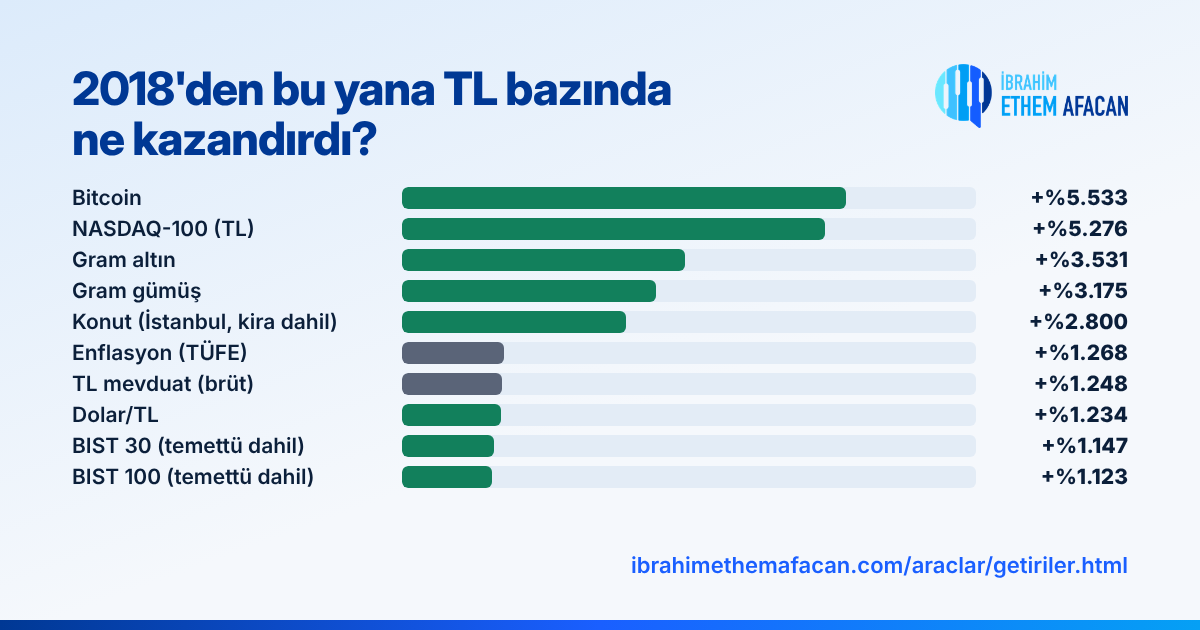
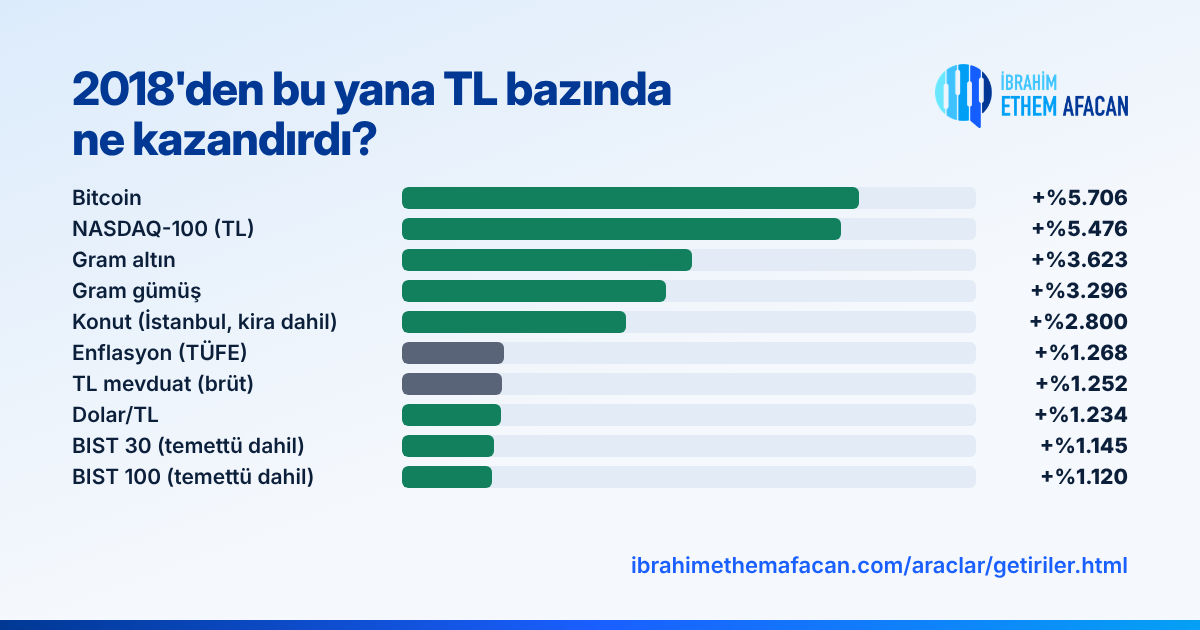
Verileri 23 Kasım 2026 kapanışına güncelle
Claude-Session: https://claude.ai/code/session_013mrGbpFadh1h9epcSoKPzq

diff --git a/araclar/getiriler.html b/araclar/getiriler.html
@@ -11,14 +11,14 @@
   <meta property="og:title" content="Yatırım Araçlarının Getirileri: 2018'den bu yana TL bazında ne kazandırdı?">
   <meta property="og:description" content="2018'den bu yana TL bazında gram altın, gram gümüş, BIST 100 ve BIST 30 (temettü dahil), NASDAQ-100, dolar/TL, bitcoin ve İstanbul'da konutun (kira dahil) mevduat ve enflasyonla karşılaştırmalı yıllık ve kümülatif getirileri.">
   <meta property="og:url" content="https://ibrahimethemafacan.com/araclar/getiriler.html">
-  <meta property="og:image" content="https://ibrahimethemafacan.com/img/og-getiriler.png?v=19">
+  <meta property="og:image" content="https://ibrahimethemafacan.com/img/og-getiriler.png?v=20">
   <meta property="og:image:width" content="1200">
   <meta property="og:image:height" content="630">
   <meta name="twitter:card" content="summary_large_image">
   <meta name="twitter:site" content="@ibrahim___ethem">
   <meta name="twitter:title" content="Yatırım Araçlarının Getirileri: 2018'den bu yana TL bazında ne kazandırdı?">
   <meta name="twitter:description" content="2018'den bu yana TL bazında gram altın, gram gümüş, BIST 100 ve BIST 30 (temettü dahil), NASDAQ-100, dolar/TL, bitcoin ve İstanbul'da konutun (kira dahil) mevduat ve enflasyonla karşılaştırmalı yıllık ve kümülatif getirileri.">
-  <meta name="twitter:image" content="https://ibrahimethemafacan.com/img/og-getiriler.png?v=19">
+  <meta name="twitter:image" content="https://ibrahimethemafacan.com/img/og-getiriler.png?v=20">
   <link rel="icon" href="/favicon.ico" sizes="any">
   <link rel="icon" type="image/png" sizes="32x32" href="/img/favicon-32.png">
   <link rel="icon" type="image/png" sizes="192x192" href="/img/favicon-192.png">
@@ -57,7 +57,7 @@
   <main class="wrap narrow">
     <article class="prose wide">
       <h1>Yatırım araçlarının getirileri</h1>
-      <p>2018 başından 20 Kasım 2026'ya kadar, Türk lirası bazında. Bir aracı seçin; her yılın getirisini ve dönem başından itibaren biriken toplam getiriyi görün.</p>
+      <p>2018 başından 23 Kasım 2026'ya kadar, Türk lirası bazında. Bir aracı seçin; her yılın getirisini ve dönem başından itibaren biriken toplam getiriyi görün.</p>
     </article>
 
     <section class="race" aria-label="Toplam getiri sıralaması">
@@ -79,7 +79,7 @@
 
     <article class="prose">
       <h2>Notlar</h2>
-      <p>2026 satırı yıl başından 20 Kasım 2026'ya kadarki dönemi kapsar. Kümülatif getiri, yıllık getirilerin bileşik olarak çarpılmasıyla bulunur; bu yüzden yıllık oranların basit toplamından farklıdır. BIST 100 ve BIST 30 getirileri temettüler dahil hesaplanmıştır. NASDAQ-100, endeks puanının dolar/TL kuruyla çarpılmasıyla TL'ye çevrilmiştir; temettüler hariçtir. Gram altın GLDGR kapanışlarından, gram gümüş ise XAGTRY (ons gümüş/TL) kapanışlarının 31,1035'e bölünerek grama çevrilmesiyle hesaplanmıştır. Bitcoin'in yıl sonu değeri, yılın son günündeki BTC/USDT kapanışının dolar/TL kuruyla çarpılmasıyla bulunmuştur. Konut getirisi, İstanbul konut fiyatlarındaki değişim (TCMB Konut Fiyat Endeksi) ile brüt kira getirisinin toplamıdır. Kira getirisi, TCMB'nin İstanbul'da değerlemesi yapılan konutlara ait birim kira ve birim fiyat verilerinden hesaplanmıştır; aidat, vergi ve boş kalma süresi gibi masraflar hariçtir. TL mevduat getirisi, TCMB'nin açıkladığı 3 aya kadar vadeli TL mevduat faizlerinin (ağırlıklı ortalama, akım) aylık ortalamalarıyla, mevduatın her üç ayda bir yenilendiği varsayılarak hesaplanmıştır; stopaj öncesi brüt getiridir. Enflasyon, TÜİK'in açıkladığı tüketici fiyat endeksinin (TÜFE) Aralıktan Aralığa değişimidir; 2026 satırı Eylül 2026'ya kadarki değişimi gösterir. Geçmiş getiriler gelecekteki getirilerin göstergesi değildir.</p>
+      <p>2026 satırı yıl başından 23 Kasım 2026'ya kadarki dönemi kapsar. Kümülatif getiri, yıllık getirilerin bileşik olarak çarpılmasıyla bulunur; bu yüzden yıllık oranların basit toplamından farklıdır. BIST 100 ve BIST 30 getirileri temettüler dahil hesaplanmıştır. NASDAQ-100, endeks puanının dolar/TL kuruyla çarpılmasıyla TL'ye çevrilmiştir; temettüler hariçtir. Gram altın GLDGR kapanışlarından, gram gümüş ise XAGTRY (ons gümüş/TL) kapanışlarının 31,1035'e bölünerek grama çevrilmesiyle hesaplanmıştır. Bitcoin'in yıl sonu değeri, yılın son günündeki BTC/USDT kapanışının dolar/TL kuruyla çarpılmasıyla bulunmuştur. Konut getirisi, İstanbul konut fiyatlarındaki değişim (TCMB Konut Fiyat Endeksi) ile brüt kira getirisinin toplamıdır. Kira getirisi, TCMB'nin İstanbul'da değerlemesi yapılan konutlara ait birim kira ve birim fiyat verilerinden hesaplanmıştır; aidat, vergi ve boş kalma süresi gibi masraflar hariçtir. TL mevduat getirisi, TCMB'nin açıkladığı 3 aya kadar vadeli TL mevduat faizlerinin (ağırlıklı ortalama, akım) aylık ortalamalarıyla, mevduatın her üç ayda bir yenilendiği varsayılarak hesaplanmıştır; stopaj öncesi brüt getiridir. Enflasyon, TÜİK'in açıkladığı tüketici fiyat endeksinin (TÜFE) Aralıktan Aralığa değişimidir; 2026 satırı Eylül 2026'ya kadarki değişimi gösterir. Geçmiş getiriler gelecekteki getirilerin göstergesi değildir.</p>
     </article>
   </main>
 
@@ -92,38 +92,38 @@
   </footer>
 
   <script>
-    // Yıllık değişim (%) ve kümülatif (%) — 2026: 20 Kasım 2026'ya kadar
+    // Yıllık değişim (%) ve kümülatif (%) — 2026: 23 Kasım 2026'ya kadar
     var DATA = [
       { id: 'altin', name: 'Gram altın', color: '#B8862B',
-        foot: '158,80 TL → 5.765,70 TL',
-        rows: [[2018,37.4,37.4],[2019,33.1,82.8],[2020,56.4,186.0],[2021,72.0,392.0],[2022,40.5,591.1],[2023,78.3,1132],[2024,52.5,1779],[2025,99.5,3648],['2026*',-3.1,3531]] },
+        foot: '158,80 TL → 5.912,52 TL',
+        rows: [[2018,37.4,37.4],[2019,33.1,82.8],[2020,56.4,186.0],[2021,72.0,392.0],[2022,40.5,591.1],[2023,78.3,1132],[2024,52.5,1779],[2025,99.5,3648],['2026*',-0.7,3623]] },
       { id: 'gumus', name: 'Gram gümüş', color: '#8A9BA8',
-        foot: '2,07 TL → 67,65 TL',
-        rows: [[2018,27.4,27.4],[2019,29.8,65.5],[2020,84.6,205.5],[2021,57.4,380.8],[2022,45.0,597.0],[2023,56.7,992.2],[2024,45.7,1491],[2025,198.4,4648],['2026*',-31.0,3175]] },
+        foot: '2,07 TL → 70,14 TL',
+        rows: [[2018,27.4,27.4],[2019,29.8,65.5],[2020,84.6,205.5],[2021,57.4,380.8],[2022,45.0,597.0],[2023,56.7,992.2],[2024,45.7,1491],[2025,198.4,4648],['2026*',-28.5,3296]] },
       { id: 'bist', name: 'BIST 100 (temettü dahil)', tab: 'BIST 100', color: '#0F6B57',
         foot: 'Temettüler yeniden yatırılmış kabul edilir.',
-        rows: [[2018,-18.1,-18.1],[2019,29.7,6.2],[2020,30.9,39.0],[2021,30.0,80.8],[2022,206.5,454.0],[2023,39.3,671.8],[2024,34.9,941.1],[2025,17.0,1119],['2026*',0.3,1123]] },
+        rows: [[2018,-18.1,-18.1],[2019,29.7,6.2],[2020,30.9,39.0],[2021,30.0,80.8],[2022,206.5,454.0],[2023,39.3,671.8],[2024,34.9,941.1],[2025,17.0,1119],['2026*',0.0,1120]] },
       { id: 'bist30', name: 'BIST 30 (temettü dahil)', tab: 'BIST 30', color: '#0B5A48',
         foot: 'Temettüler yeniden yatırılmış kabul edilir.',
-        rows: [[2018,-16.7,-16.7],[2019,25.6,4.6],[2020,19.5,25.0],[2021,27.9,59.9],[2022,203.4,385.2],[2023,38.6,572.4],[2024,37.5,824.6],[2025,16.3,975.3],['2026*',16.0,1147]] },
+        rows: [[2018,-16.7,-16.7],[2019,25.6,4.6],[2020,19.5,25.0],[2021,27.9,59.9],[2022,203.4,385.2],[2023,38.6,572.4],[2024,37.5,824.6],[2025,16.3,975.3],['2026*',15.8,1145]] },
       { id: 'ndx', name: 'NASDAQ-100 (TL)', tab: 'NASDAQ-100', color: '#2E5AAC',
-        foot: '24.246 TL → 1.304.509 TL. Endeks puanı, dolar/TL kuruyla TL\'ye çevrilmiştir; temettüler hariçtir.',
-        rows: [[2018,38.2,38.2],[2019,55.1,114.3],[2020,84.5,295.2],[2021,126.1,793.7],[2022,-5.5,744.2],[2023,143.2,1953],[2024,49.3,2966],[2025,45.8,4370],['2026*',20.3,5276]] },
+        foot: '24.246 TL → 1.353.031 TL. Endeks puanı, dolar/TL kuruyla TL\'ye çevrilmiştir; temettüler hariçtir.',
+        rows: [[2018,38.2,38.2],[2019,55.1,114.3],[2020,84.5,295.2],[2021,126.1,793.7],[2022,-5.5,744.2],[2023,143.2,1953],[2024,49.3,2966],[2025,45.8,4370],['2026*',24.7,5476]] },
       { id: 'usd', name: 'Dolar/TL', color: '#3B5B8C',
-        foot: '3,79 TL → 50,58 TL',
-        rows: [[2018,39.7,39.7],[2019,12.4,57.0],[2020,25.0,96.2],[2021,80.3,253.6],[2022,39.6,393.6],[2023,57.5,677.6],[2024,20.0,833.4],[2025,21.4,1033],['2026*',17.7,1234]] },
+        foot: '3,79 TL → 50,59 TL',
+        rows: [[2018,39.7,39.7],[2019,12.4,57.0],[2020,25.0,96.2],[2021,80.3,253.6],[2022,39.6,393.6],[2023,57.5,677.6],[2024,20.0,833.4],[2025,21.4,1033],['2026*',17.8,1234]] },
       { id: 'btc', name: 'Bitcoin', color: '#E8891C',
-        star: '* 20 Kasım 2026 itibarıyla. ',
-        foot: '52.961 TL → 3.005.689 TL. TL fiyatı, BTC/USDT fiyatı ile dolar/TL kurunun çarpımıdır.',
-        rows: [[2018,-63.3,-63.3],[2019,119.7,-19.4],[2020,407.3,308.9],[2021,181.3,1050],[2022,-49.1,485.3],[2023,306.2,2278],[2024,162.9,6151],[2025,13.7,7005],['2026*',-20.7,5533]] },
+        star: '* 23 Kasım 2026 itibarıyla. ',
+        foot: '52.961 TL → 3.097.957 TL. TL fiyatı, BTC/USDT fiyatı ile dolar/TL kurunun çarpımıdır.',
+        rows: [[2018,-63.3,-63.3],[2019,119.7,-19.4],[2020,407.3,308.9],[2021,181.3,1050],[2022,-49.1,485.3],[2023,306.2,2278],[2024,162.9,6151],[2025,13.7,7005],['2026*',-18.3,5706]] },
       { id: 'konut', name: 'Konut (İstanbul/kira dahil)', tab: 'Konut', color: '#6B4E9B',
         star: '* Eylül 2026 itibarıyla (TCMB\'nin açıkladığı son veri; kira dokuz aylık). ',
         foot: 'İstanbul konut fiyat değişimi (TCMB) ile brüt kira getirisinin toplamıdır. Vergi ve masraflar hariçtir.',
         rows: [[2018,6.2,6.2],[2019,9.3,16.1],[2020,33.3,54.7],[2021,73.9,169.0],[2022,174.5,638.5],[2023,72.3,1172],[2024,31.9,1579],[2025,35.5,2175],['2026*',26.3,2773]] },
       { id: 'mevduat', name: 'TL mevduat (brüt)', tab: 'Mevduat', color: '#8A94A6', bench: true,
-        star: '* 20 Kasım 2026 itibarıyla (3 aya kadar vadeli mevduat; son vade 2 Ekim\'de %43,79 faizle başladı). ',
+        star: '* 23 Kasım 2026 itibarıyla (3 aya kadar vadeli mevduat; son vade 2 Ekim\'de %43,79 faizle başladı). ',
         foot: '3 aya kadar vadeli TL mevduatın her vade sonunda yenilendiği varsayılmıştır. Stopaj öncesi brüt getiridir.',
-        rows: [[2018,19.3,19.3],[2019,20.1,43.2],[2020,11.2,59.2],[2021,19.4,90.1],[2022,20.4,128.8],[2023,40.2,220.8],[2024,73.2,455.7],[2025,64.2,812.4],['2026*',47.7,1248]] },
+        rows: [[2018,19.3,19.3],[2019,20.1,43.2],[2020,11.2,59.2],[2021,19.4,90.1],[2022,20.4,128.8],[2023,40.2,220.8],[2024,73.2,455.7],[2025,64.2,812.4],['2026*',48.2,1252]] },
       { id: 'tufe', name: 'Enflasyon (TÜFE)', tab: 'Enflasyon', color: '#8A94A6', bench: true,
         star: '* Ekim 2026 itibarıyla (TÜİK\'in açıkladığı son veri). ',
         foot: 'Bir aracın kümülatif getirisi buradaki kümülatif enflasyondan yüksekse, o araç dönem boyunca enflasyonu yenmiştir.',
@@ -180,7 +180,7 @@
           '<td class="r rt-cum">' + pct(r[2], true) + '</td></tr>';
       }).join('');
       fitLabels();
-      document.getElementById('foot').textContent = (d.star || '* 20 Kasım 2026 itibarıyla. ') + d.foot;
+      document.getElementById('foot').textContent = (d.star || '* 23 Kasım 2026 itibarıyla. ') + d.foot;
     }
 
     // Oran her zaman çubuğun içinde; kısa çubuklar oranın sığacağı kadar uzatılır

diff --git a/araclar/makro.html b/araclar/makro.html
@@ -247,14 +247,14 @@
       <div class="gh-row"><svg class="gh-art" viewBox="0 0 64 64" aria-hidden="true" fill="none" stroke-linecap="round" stroke-linejoin="round"><circle cx="26" cy="30" r="20" fill="#E6F0FE" stroke="#0E3A8C" stroke-width="2.5"/><ellipse cx="26" cy="30" rx="9" ry="20" stroke="#0E3A8C" stroke-width="1.8"/><line x1="6" y1="30" x2="46" y2="30" stroke="#0E3A8C" stroke-width="1.8"/><path d="M9 20 H43 M9 40 H43" stroke="#A9C6FF" stroke-width="1.8"/>
 <polyline points="30,54 40,44 47,48 60,30" stroke="#1A5FFF" stroke-width="3"/><polyline points="53,30 60,30 60,37" stroke="#1A5FFF" stroke-width="3"/><circle cx="14" cy="56" r="5" fill="#E8B43A" stroke="#0E3A8C" stroke-width="1.8"/></svg><h2 class="gh">Dünya piyasaları</h2></div>
       <article class="prose wide">
-        <p>Dünyanın başlıca borsaları, emtiaları ve dolar endeksi Kasım ayında (20 Kasım'a kadar) ve yılbaşından bu yana ne kadar değişti? Karşılaştırma dolar bazındadır: euro, sterlin, yen, won, yuan ve TL ile hesaplanan endeksler, aynı dönemdeki kur değişimiyle dolara çevrilmiştir. Endeksler fiyat endeksidir, temettü dahil değildir. Dolar endeksi (DXY), doların diğer büyük para birimleri karşısındaki değerini gösterir.</p>
+        <p>Dünyanın başlıca borsaları, emtiaları ve dolar endeksi Kasım ayında (23 Kasım'a kadar) ve yılbaşından bu yana ne kadar değişti? Karşılaştırma dolar bazındadır: euro, sterlin, yen, won, yuan ve TL ile hesaplanan endeksler, aynı dönemdeki kur değişimiyle dolara çevrilmiştir. Endeksler fiyat endeksidir, temettü dahil değildir. Dolar endeksi (DXY), doların diğer büyük para birimleri karşısındaki değerini gösterir.</p>
       </article>
       <figure class="chart" id="c-rk"><figcaption id="rk-cap"></figcaption>
         <div class="seg" role="group" aria-label="Dönem"><button type="button" data-p="y" aria-pressed="true">2026</button><button type="button" data-p="m" aria-pressed="false">Kasım ayı</button></div>
         <div class="lg"></div><div class="rk"></div></figure>
       <article class="prose wide"><p>Gelişen piyasalar son bir yılın zirvesinden ne kadar uzakta? Her ülke için ABD'de işlem gören ülke borsa yatırım fonunun (ETF) dolar fiyatı, son 52 haftadaki en yüksek değeriyle karşılaştırılmıştır; sıfır çizgisi zirveyi gösterir. Türkiye kırmızı, MSCI'ın gelişen piyasalar sınıfı dışında tuttuğu Arjantin kesikli çizgiyle işaretlidir.</p></article>
       <figure class="chart" id="c-zv"><figcaption id="zv-cap"></figcaption><div class="lg"></div><div class="rk zv"></div></figure>
-      <figure class="chart" id="c-us10"><figcaption>ABD 10 yıllık tahvil faizi, ay sonu (Kasım: 20 Kasım), %</figcaption><div class="lg"></div><div class="plot"></div></figure>
+      <figure class="chart" id="c-us10"><figcaption>ABD 10 yıllık tahvil faizi, ay sonu (Kasım: 23 Kasım), %</figcaption><div class="lg"></div><div class="plot"></div></figure>
       <article class="prose wide"><p>ABD 10 yıllık tahvil faizi, dünyadaki varlıkların fiyatlamasında temel alınan “risksiz” getiridir; yükseldiğinde hisse senetleri, altın ve gelişmekte olan ülke varlıkları genellikle baskı altına girer.</p></article>
       <figure class="chart" id="c-etf"><figcaption>Altın ETF'lerine net para girişi, 2026, milyar dolar</figcaption><div class="lg"></div><div class="plot"></div></figure>
       <article class="prose wide"><p>Dünya genelinde fiziki altına dayalı borsa yatırım fonlarına (ETF) giren ve çıkan para. Artı değer net girişi, eksi değer net çıkışı gösterir. Bu fonların toplam altın varlığı Eylül sonunda 4.256 ton ile rekor kırdı.</p></article>
@@ -266,7 +266,7 @@
       <p class="unit">Milyar dolar</p>
       <div class="twrap"><table class="kt" id="t-etf"><thead><tr><th>Ay</th><th>Net akım</th></tr></thead><tbody></tbody><tfoot></tfoot></table></div>
       </details>
-      <p class="calc-note">Değerler 20 Kasım 2026 itibarıyladır; ABD endeksleri, emtialar ve dolar endeksi o günün akşam fiyatlarıdır ve gün sonu kapanışından farklı olabilir. Kasım değişimi Ekim sonu kapanışına (Dow Jones için 29 Ekim), 2026 değişimi 2025 son kapanışına göredir. Dolara çevirmede EUR/USD, GBP/USD, USD/JPY, USD/KRW, USD/CNY ve USD/TRY kurlarının aynı tarihlerdeki değerleri kullanılmıştır. * Son değer, endeksin kendi para birimindeki puanıdır. Zirveden uzaklık grafiğinde iShares ülke ETF'leri (Çin için büyük ölçekli şirketleri izleyen FXI, gelişen piyasalar için EEM ve Çin hariç EMXC) kullanılmış; ABD'de ETF'i bulunmayan Mısır için FTSE Mısır endeksinin dolar değeri alınmıştır. Fiyatlar 20 Kasım 2026 ABD kapanışı, zirve son 52 haftada görülen en yüksek fiyattır.</p>
+      <p class="calc-note">Değerler 23 Kasım 2026 itibarıyladır; ABD endeksleri, emtialar ve dolar endeksi o günün akşam fiyatlarıdır ve gün sonu kapanışından farklı olabilir. Kasım değişimi Ekim sonu kapanışına (Dow Jones için 29 Ekim), 2026 değişimi 2025 son kapanışına göredir. Dolara çevirmede EUR/USD, GBP/USD, USD/JPY, USD/KRW, USD/CNY ve USD/TRY kurlarının aynı tarihlerdeki değerleri kullanılmıştır. * Son değer, endeksin kendi para birimindeki puanıdır. Zirveden uzaklık grafiğinde iShares ülke ETF'leri (Çin için büyük ölçekli şirketleri izleyen FXI, gelişen piyasalar için EEM ve Çin hariç EMXC) kullanılmış; ABD'de ETF'i bulunmayan Mısır için FTSE Mısır endeksinin dolar değeri alınmıştır. Fiyatlar 23 Kasım 2026 ABD kapanışı, zirve son 52 haftada görülen en yüksek fiyattır.</p>
     </section>
 
     <article class="prose">
@@ -390,9 +390,9 @@
     chart('c-cy',{type:'bar',sign:true,labels:D.cari.y.map(function(r){return r.y;}),fmt:function(v){return fB(v)+' milyar $';},fmtAxis:function(v){return (v<0?'−':'')+n0.format(Math.abs(v));},series:[{name:'Cari denge',color:UP,values:D.cari.y.map(function(r){return r.v;})}]});
 
     /* ---- dünya piyasaları ---- */
-    var DN_=[["S&P 500|ABD","b",-6.8,2.6,7083.21],["Dow Jones|ABD","b",-6.2,2.2,49097.06],["Nasdaq-100|ABD","b",-9.5,2.1,25792.17],["DAX|Almanya","b",-5.3,-5.1,24867.88],["FTSE 100|İngiltere","b",-5.5,1.7,10366.02],["CAC 40|Fransa","b",-1.8,-8.9,7949.07],["Nikkei 225|Japonya","b",-11.6,10.8,56436.65],["KOSPI|Güney Kore","b",-15.5,24.4,4869.96],["Şanghay|Çin","b",-1.8,-6.6,3533.79],["BIST 100|Türkiye","b",2.2,-16.1,11131.32],["Altın|ons","e",-9.2,-17.9,3541.91],["Gümüş|ons","e",-15.7,-41.6,41.52],["Brent petrol|varil","e",-21.4,46.1,88.95],["Dolar endeksi|DXY","d",1.8,5.5,103.76]];
+    var DN_=[["S&P 500|ABD","b",-4.7,4.9,7242.82],["Dow Jones|ABD","b",-5.2,3.2,49595.31],["Nasdaq-100|ABD","b",-6.2,5.9,26746.1],["DAX|Almanya","b",-4.2,-4.0,25337.27],["FTSE 100|İngiltere","b",-4.9,2.3,10480.82],["CAC 40|Fransa","b",-1.4,-8.4,8044.84],["Nikkei 225|Japonya","b",-11.7,10.6,56436.65],["KOSPI|Güney Kore","b",-18.4,20.2,4708.54],["Şanghay|Çin","b",-1.6,-6.4,3538.95],["BIST 100|Türkiye","b",1.9,-16.3,11104.38],["Altın|ons","e",-6.8,-15.7,3635.25],["Gümüş|ons","e",-12.5,-39.3,43.12],["Brent petrol|varil","e",-23.2,42.7,86.87],["Dolar endeksi|DXY","d",2.4,6.1,104.32]];
     var KAT={b:['Borsa',C1],e:['Emtia',C2],d:['Döviz',C3]};
-    var US10={v:[1.088,1.426,1.739,1.625,1.584,1.472,1.23,1.308,1.487,1.562,1.443,1.514,1.793,1.834,2.339,2.931,2.853,3.017,2.651,3.195,3.827,4.05,3.687,3.88,3.506,3.914,3.476,3.424,3.642,3.839,3.959,4.106,4.579,4.931,4.362,3.881,3.978,4.25,4.205,4.694,4.51,4.387,4.075,3.913,3.786,4.275,4.175,4.576,4.585,4.219,4.23,4.156,4.401,4.242,4.367,4.233,4.153,4.098,4.018,4.172,4.238,3.952,4.318,4.375,4.44,4.47,4.74,4.76,5.29,4.96,4.95]};
+    var US10={v:[1.088,1.426,1.739,1.625,1.584,1.472,1.23,1.308,1.487,1.562,1.443,1.514,1.793,1.834,2.339,2.931,2.853,3.017,2.651,3.195,3.827,4.05,3.687,3.88,3.506,3.914,3.476,3.424,3.642,3.839,3.959,4.106,4.579,4.931,4.362,3.881,3.978,4.25,4.205,4.694,4.51,4.387,4.075,3.913,3.786,4.275,4.175,4.576,4.585,4.219,4.23,4.156,4.401,4.242,4.367,4.233,4.153,4.098,4.018,4.172,4.238,3.952,4.318,4.375,4.44,4.47,4.74,4.76,5.29,4.96,4.93]};
     var ETF=[19,5.3,-12,6.6,-2,-8.9,3,18,10];
     var us10m=US10.v.map(function(v,i){return (2021+Math.floor(i/12))+'-'+(i%12+1);});
     fill('t-dn',DN_.map(function(r){var q=r[0].split('|');return '<tr><td>'+q[0]+' <span style="color:var(--muted)">('+q[1]+')</span></td><td>'+n2.format(r[4])+'</td><td>'+pc(r[2])+'</td><td>'+pc(r[3])+'</td></tr>';}).join(''));
@@ -411,7 +411,7 @@
     document.querySelectorAll('#c-rk .seg button').forEach(function(b){b.addEventListener('click',function(){rkP=b.dataset.p;document.querySelectorAll('#c-rk .seg button').forEach(function(x){x.setAttribute('aria-pressed',x===b);});rank();});});
     rank();
     /* ---- 52 haftalık zirveden uzaklık ---- */
-    var ZV={"d":"20 Kasım 2026","r":[["Endonezya","EIDO",10.24,19.29,""],["Güney Kore","EWY",128.08,220.89,""],["Arjantin","ARGT",66.0,103.97,"s"],["Türkiye","TUR",29.86,43.98,"t"],["Brezilya","EWZ",29.23,43.9,""],["Şili","ECH",33.71,47.85,""],["Tayvan","EWT",77.48,118.47,""],["MSCI Gelişen (Çin hariç)","EMXC",79.66,107.12,"e"],["Filipinler","EPHE",20.69,28.4,""],["Güney Afrika","EZA",57.76,81.76,""],["MSCI Gelişen Piyasalar","EEM",54.94,71.57,"e"],["Peru","EPU",71.69,95.28,""],["Çin (büyük ölçek)","FXI",31.48,41.17,""],["Suudi Arabistan","KSA",35.06,40.83,""],["Katar","QAT",17.63,20.17,""],["Mısır","FTSE Mısır",19535.76,22112.61,""],["Malezya","EWM",25.42,30.64,""],["Tayland","THD",65.14,75.17,""]]};
+    var ZV={"d":"23 Kasım 2026","r":[["Endonezya","EIDO",10.62,19.29,""],["Güney Kore","EWY",135.72,220.89,""],["Arjantin","ARGT",67.36,103.97,"s"],["Türkiye","TUR",30.0,43.98,"t"],["Brezilya","EWZ",29.24,43.9,""],["Şili","ECH",34.25,47.85,""],["Tayvan","EWT",88.21,118.47,""],["MSCI Gelişen (Çin hariç)","EMXC",84.4,107.12,"e"],["Filipinler","EPHE",21.24,28.4,""],["Güney Afrika","EZA",59.06,81.76,""],["MSCI Gelişen Piyasalar","EEM",57.8,71.57,"e"],["Peru","EPU",74.2,95.28,""],["Çin (büyük ölçek)","FXI",31.63,41.17,""],["Suudi Arabistan","KSA",34.95,40.83,""],["Katar","QAT",17.63,20.17,""],["Mısır","FTSE Mısır",19397.52,22112.61,""],["Malezya","EWM",25.56,30.64,""],["Tayland","THD",66.01,75.17,""]]};
     (function(){var rows=ZV.r.map(function(r){return {n:r[0],k:r[1],p:r[2],h:r[3],t:r[4],v:(r[2]/r[3]-1)*100};}).sort(function(a,b){return a.v-b.v;});
       document.getElementById('zv-cap').textContent='52 haftalık zirveden uzaklık, dolar bazında, % ('+ZV.d+')';
       var mx=Math.max.apply(null,rows.map(function(r){return Math.abs(r.v);}))||1,box=document.querySelector('#c-zv .rk');

diff --git a/index.html b/index.html
@@ -64,14 +64,14 @@
           </div>
         </div>
         <a class="hero-race" href="/araclar/getiriler.html" aria-label="2026 getiri yarışı, getiriler sayfasına git">
-          <div class="hr-head"><span class="hr-eyebrow">2026'da ne kazandırdı?</span><span class="hr-sub">Yılbaşından 20 Kasım'a, TL bazında, %</span></div>
+          <div class="hr-head"><span class="hr-eyebrow">2026'da ne kazandırdı?</span><span class="hr-sub">Yılbaşından 23 Kasım'a, TL bazında, %</span></div>
           <ol class="hr-bars">
-            <li><span class="hr-n">TL mevduat</span><span class="hr-t"><i style="width:100.0%"></i></span><b class="hr-v">+47,7</b></li>
-            <li class="ref"><span class="hr-n">Enflasyon</span><span class="hr-t"><i style="width:57.7%"></i></span><b class="hr-v">+27,5</b></li>
-            <li><span class="hr-n">Dolar/TL</span><span class="hr-t"><i style="width:37.1%"></i></span><b class="hr-v">+17,7</b></li>
-            <li><span class="hr-n">BIST 100</span><span class="hr-t"><i style="width:0.6%"></i></span><b class="hr-v">+0,3</b></li>
-            <li class="neg"><span class="hr-n">Gram altın</span><span class="hr-t"><i style="width:6.5%"></i></span><b class="hr-v">−3,1</b></li>
-            <li class="neg"><span class="hr-n">Gram gümüş</span><span class="hr-t"><i style="width:65.0%"></i></span><b class="hr-v">−31,0</b></li>
+            <li><span class="hr-n">TL mevduat</span><span class="hr-t"><i style="width:100.0%"></i></span><b class="hr-v">+48,2</b></li>
+            <li class="ref"><span class="hr-n">Enflasyon</span><span class="hr-t"><i style="width:57.1%"></i></span><b class="hr-v">+27,5</b></li>
+            <li><span class="hr-n">Dolar/TL</span><span class="hr-t"><i style="width:36.9%"></i></span><b class="hr-v">+17,8</b></li>
+            <li><span class="hr-n">BIST 100</span><span class="hr-t"><i style="width:0.0%"></i></span><b class="hr-v">+0,0</b></li>
+            <li class="neg"><span class="hr-n">Gram altın</span><span class="hr-t"><i style="width:1.5%"></i></span><b class="hr-v">−0,7</b></li>
+            <li class="neg"><span class="hr-n">Gram gümüş</span><span class="hr-t"><i style="width:59.1%"></i></span><b class="hr-v">−28,5</b></li>
           </ol>
           <div class="hr-foot"><span>Enflasyonu geçen yalnızca mevduat.</span><span class="hr-more">2018'den bu yana →</span></div>
         </a>

diff --git a/scripts/og/getiriler.html b/scripts/og/getiriler.html
@@ -10,6 +10,6 @@ h1{font-size:46px}
 <div style="display:flex;align-items:center;justify-content:space-between"><h1>2018'den bu yana TL bazında<br>ne kazandırdı?</h1><img class="logo" src="logo.png" style="align-self:flex-start"></div>
 <div class="rows" id="rows"></div></div><div class="url">ibrahimethemafacan.com/araclar/getiriler.html</div><div class="bar"></div>
 <script>
-var d=[['Bitcoin',5533],['NASDAQ-100 (TL)',5276],['Gram altın',3531],['Gram gümüş',3175],['Konut (İstanbul, kira dahil)',2800],['Enflasyon (TÜFE)',1268,1],['TL mevduat (brüt)',1248,1],['Dolar/TL',1234],['BIST 30 (temettü dahil)',1147],['BIST 100 (temettü dahil)',1123]];
+var d=[['Bitcoin',5706],['NASDAQ-100 (TL)',5476],['Gram altın',3623],['Gram gümüş',3296],['Konut (İstanbul, kira dahil)',2800],['Enflasyon (TÜFE)',1268,1],['TL mevduat (brüt)',1252,1],['Dolar/TL',1234],['BIST 30 (temettü dahil)',1145],['BIST 100 (temettü dahil)',1120]];
 document.getElementById('rows').innerHTML=d.map(function(x){return '<div class="r"><span class="n">'+x[0]+'</span><span class="t"><i style="width:'+(x[1]/7161*100)+'%;'+(x[2]?'background:#5A6478':'')+'"></i></span><span class="v">+%'+x[1].toLocaleString('tr-TR')+'</span></div>'}).join('');
 </script></body></html>
